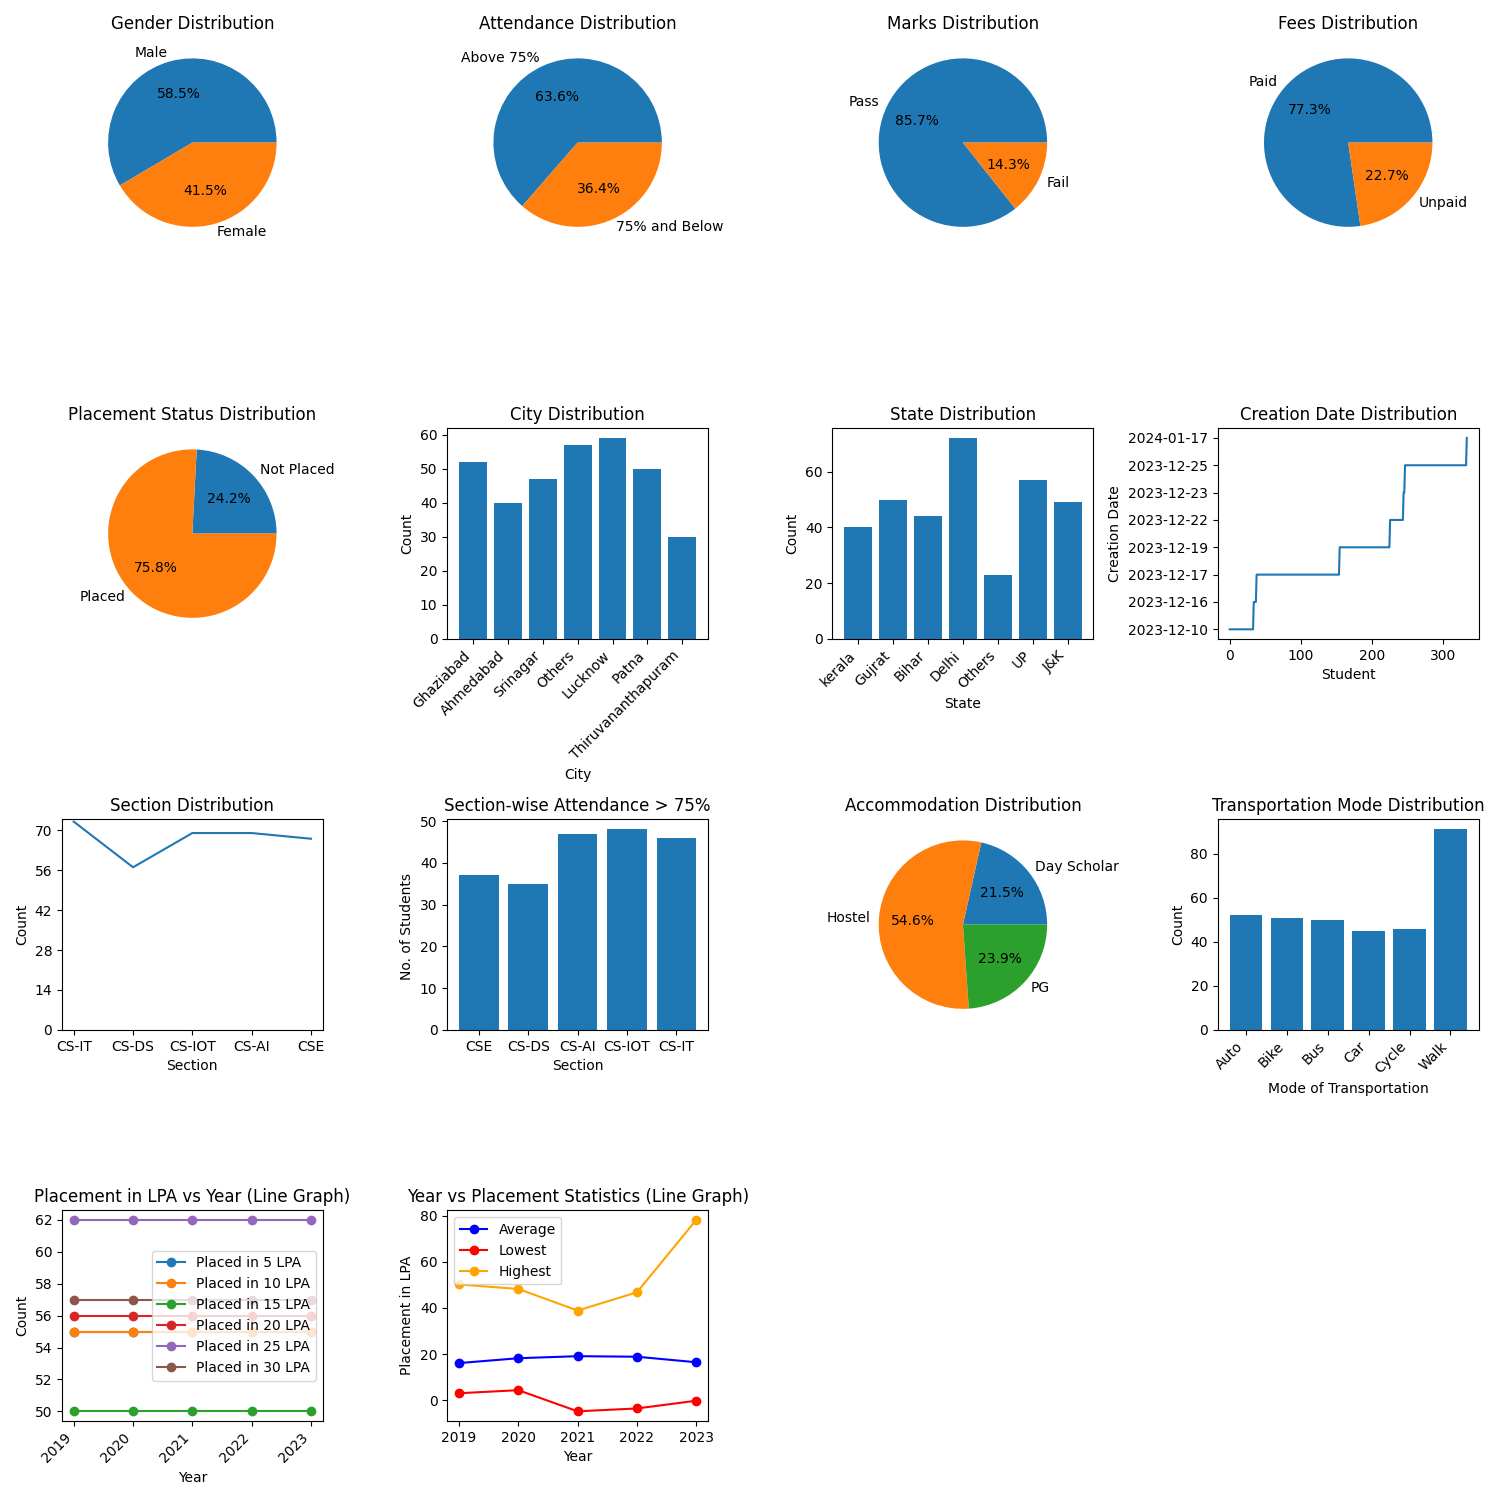
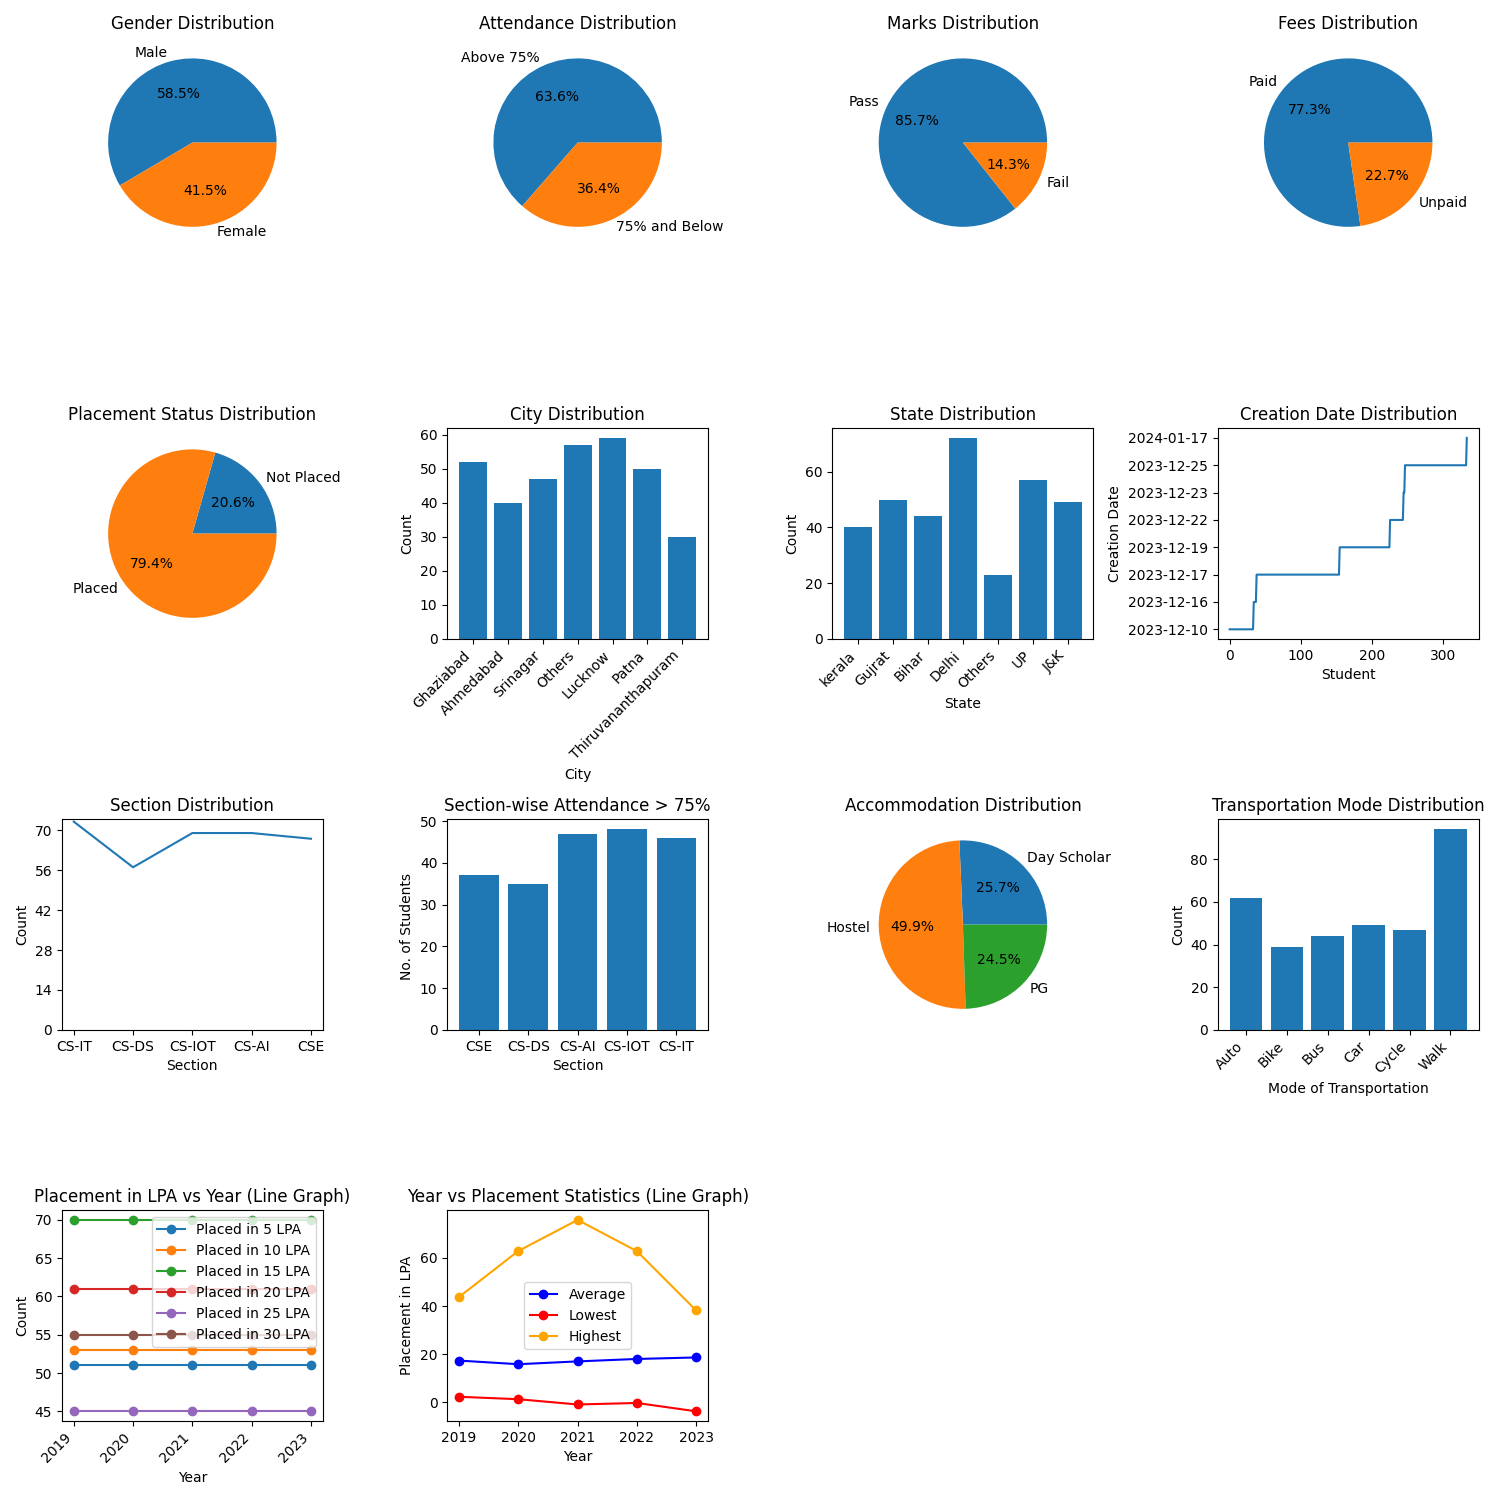
Add project-interface for 3rd-semester django-project✨✨

diff --git a/my_mini_project/mini_app2/templates/index.html b/my_mini_project/mini_app2/templates/index.html
@@ -89,7 +89,7 @@
         </pre></p>
         </div>
       </div>
-      <marquee style="color: red;" behavior="" direction=""><pre>Student Management System , Developed by : Aakash Jha 
+      <marquee style="color: red;" behavior="" direction=""><pre>Student Management System , Developed by : Aakash Jha</pre> </marquee>
       <div class="about_section" id="about">
         <div class="about_main_section">
           <div class="about_first_child">
@@ -108,10 +108,6 @@
               <li>
                 <span>>></span>After successful authentication, officials can access to the system's dashboard, presenting an overview of available functionalities such as Data Visualization, Data Analysis ,Deletion & Updating of student records ,Teacher Registration,etc .                    
               </li>
-                {% comment %} <li>
-                  <span>>></span>Search Functionality : Officials can efficiently search for specific student records
-                  using various criteria such as student ID, Student name, section ,attendance ,gender,aadhar number, marks ,fees ,etc
-                </li> {% endcomment %}
                 <li><span>>></span>Data Visualization : The system offers data visualization features powered by
                   Matplotlib, enabling officials to interpret student metrics through dynamic charts. </li>
                 <li>

diff --git a/my_mini_project/my_mini_project/settings.py b/my_mini_project/my_mini_project/settings.py
@@ -27,7 +27,8 @@ SECRET_KEY = config('SECRET_KEY')
 
 # SECURITY WARNING: don't run with debug turned on in production!
 DEBUG = config('DEBUG', default=False, cast=bool)
-ALLOWED_HOSTS = config('ALLOWED_HOSTS').split(',')
+# ALLOWED_HOSTS = config('ALLOWED_HOSTS').split(',')
+ALLOWED_HOSTS = ["*"]
 
 
 # Application definition
